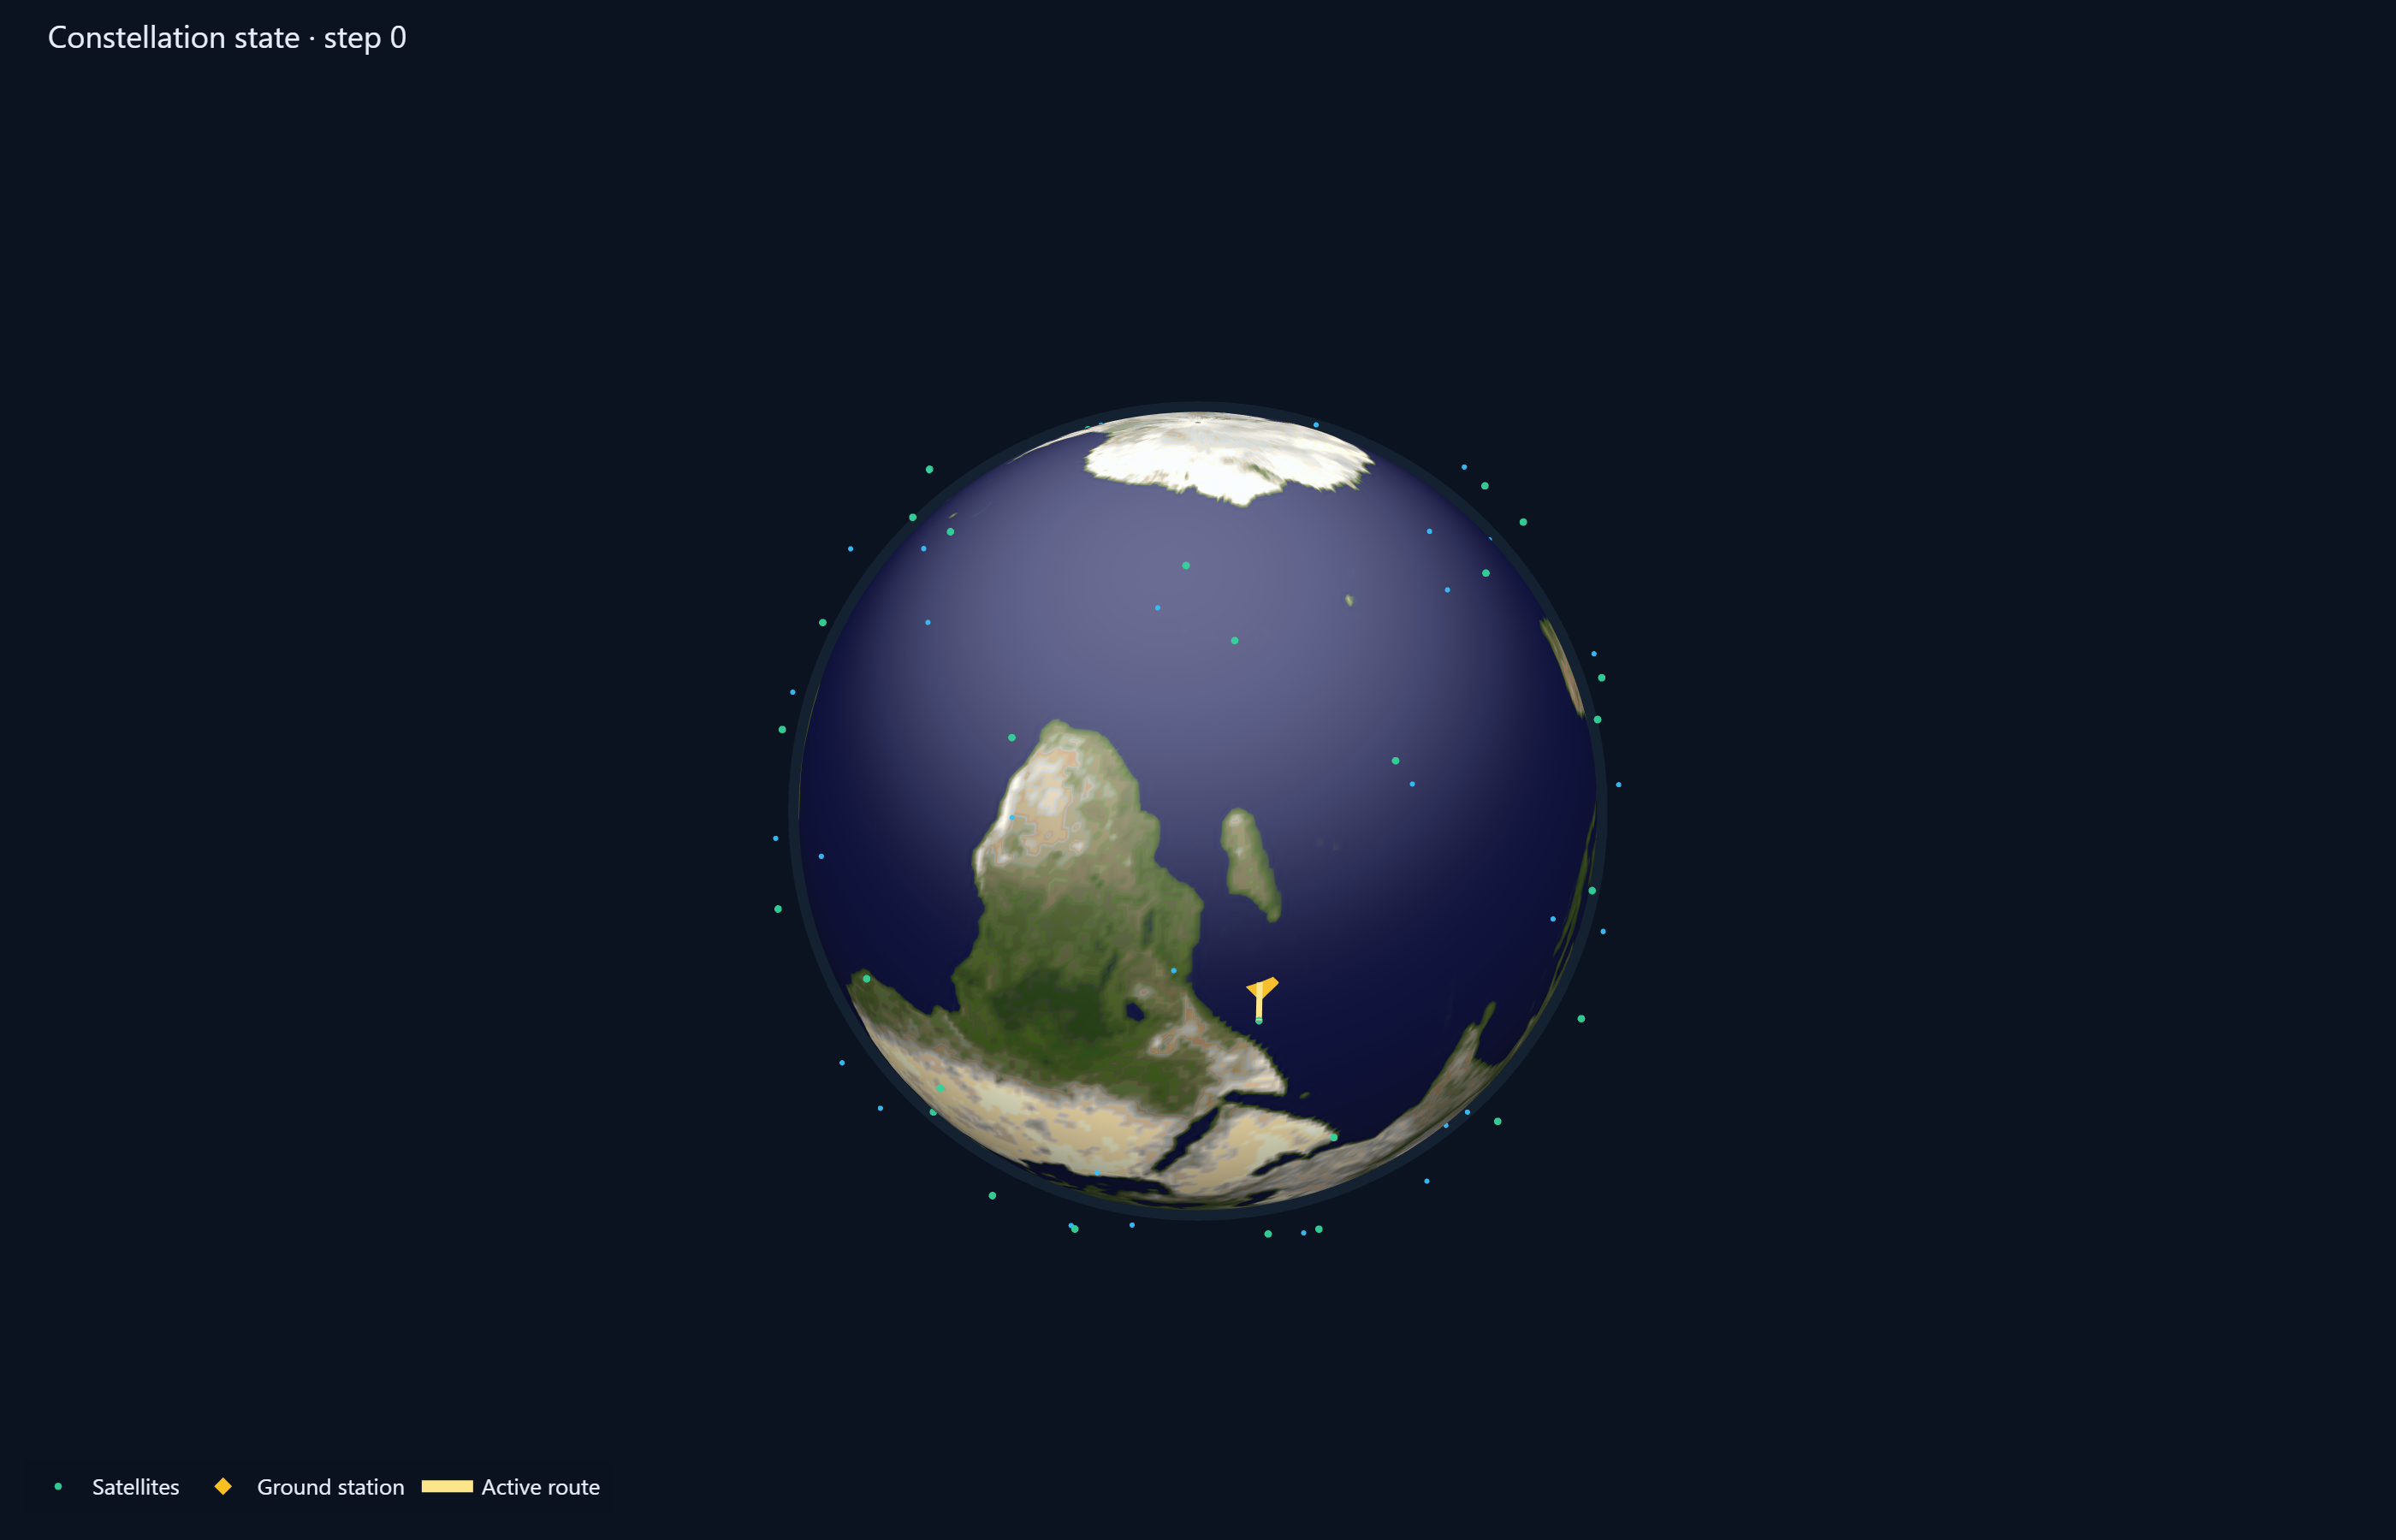
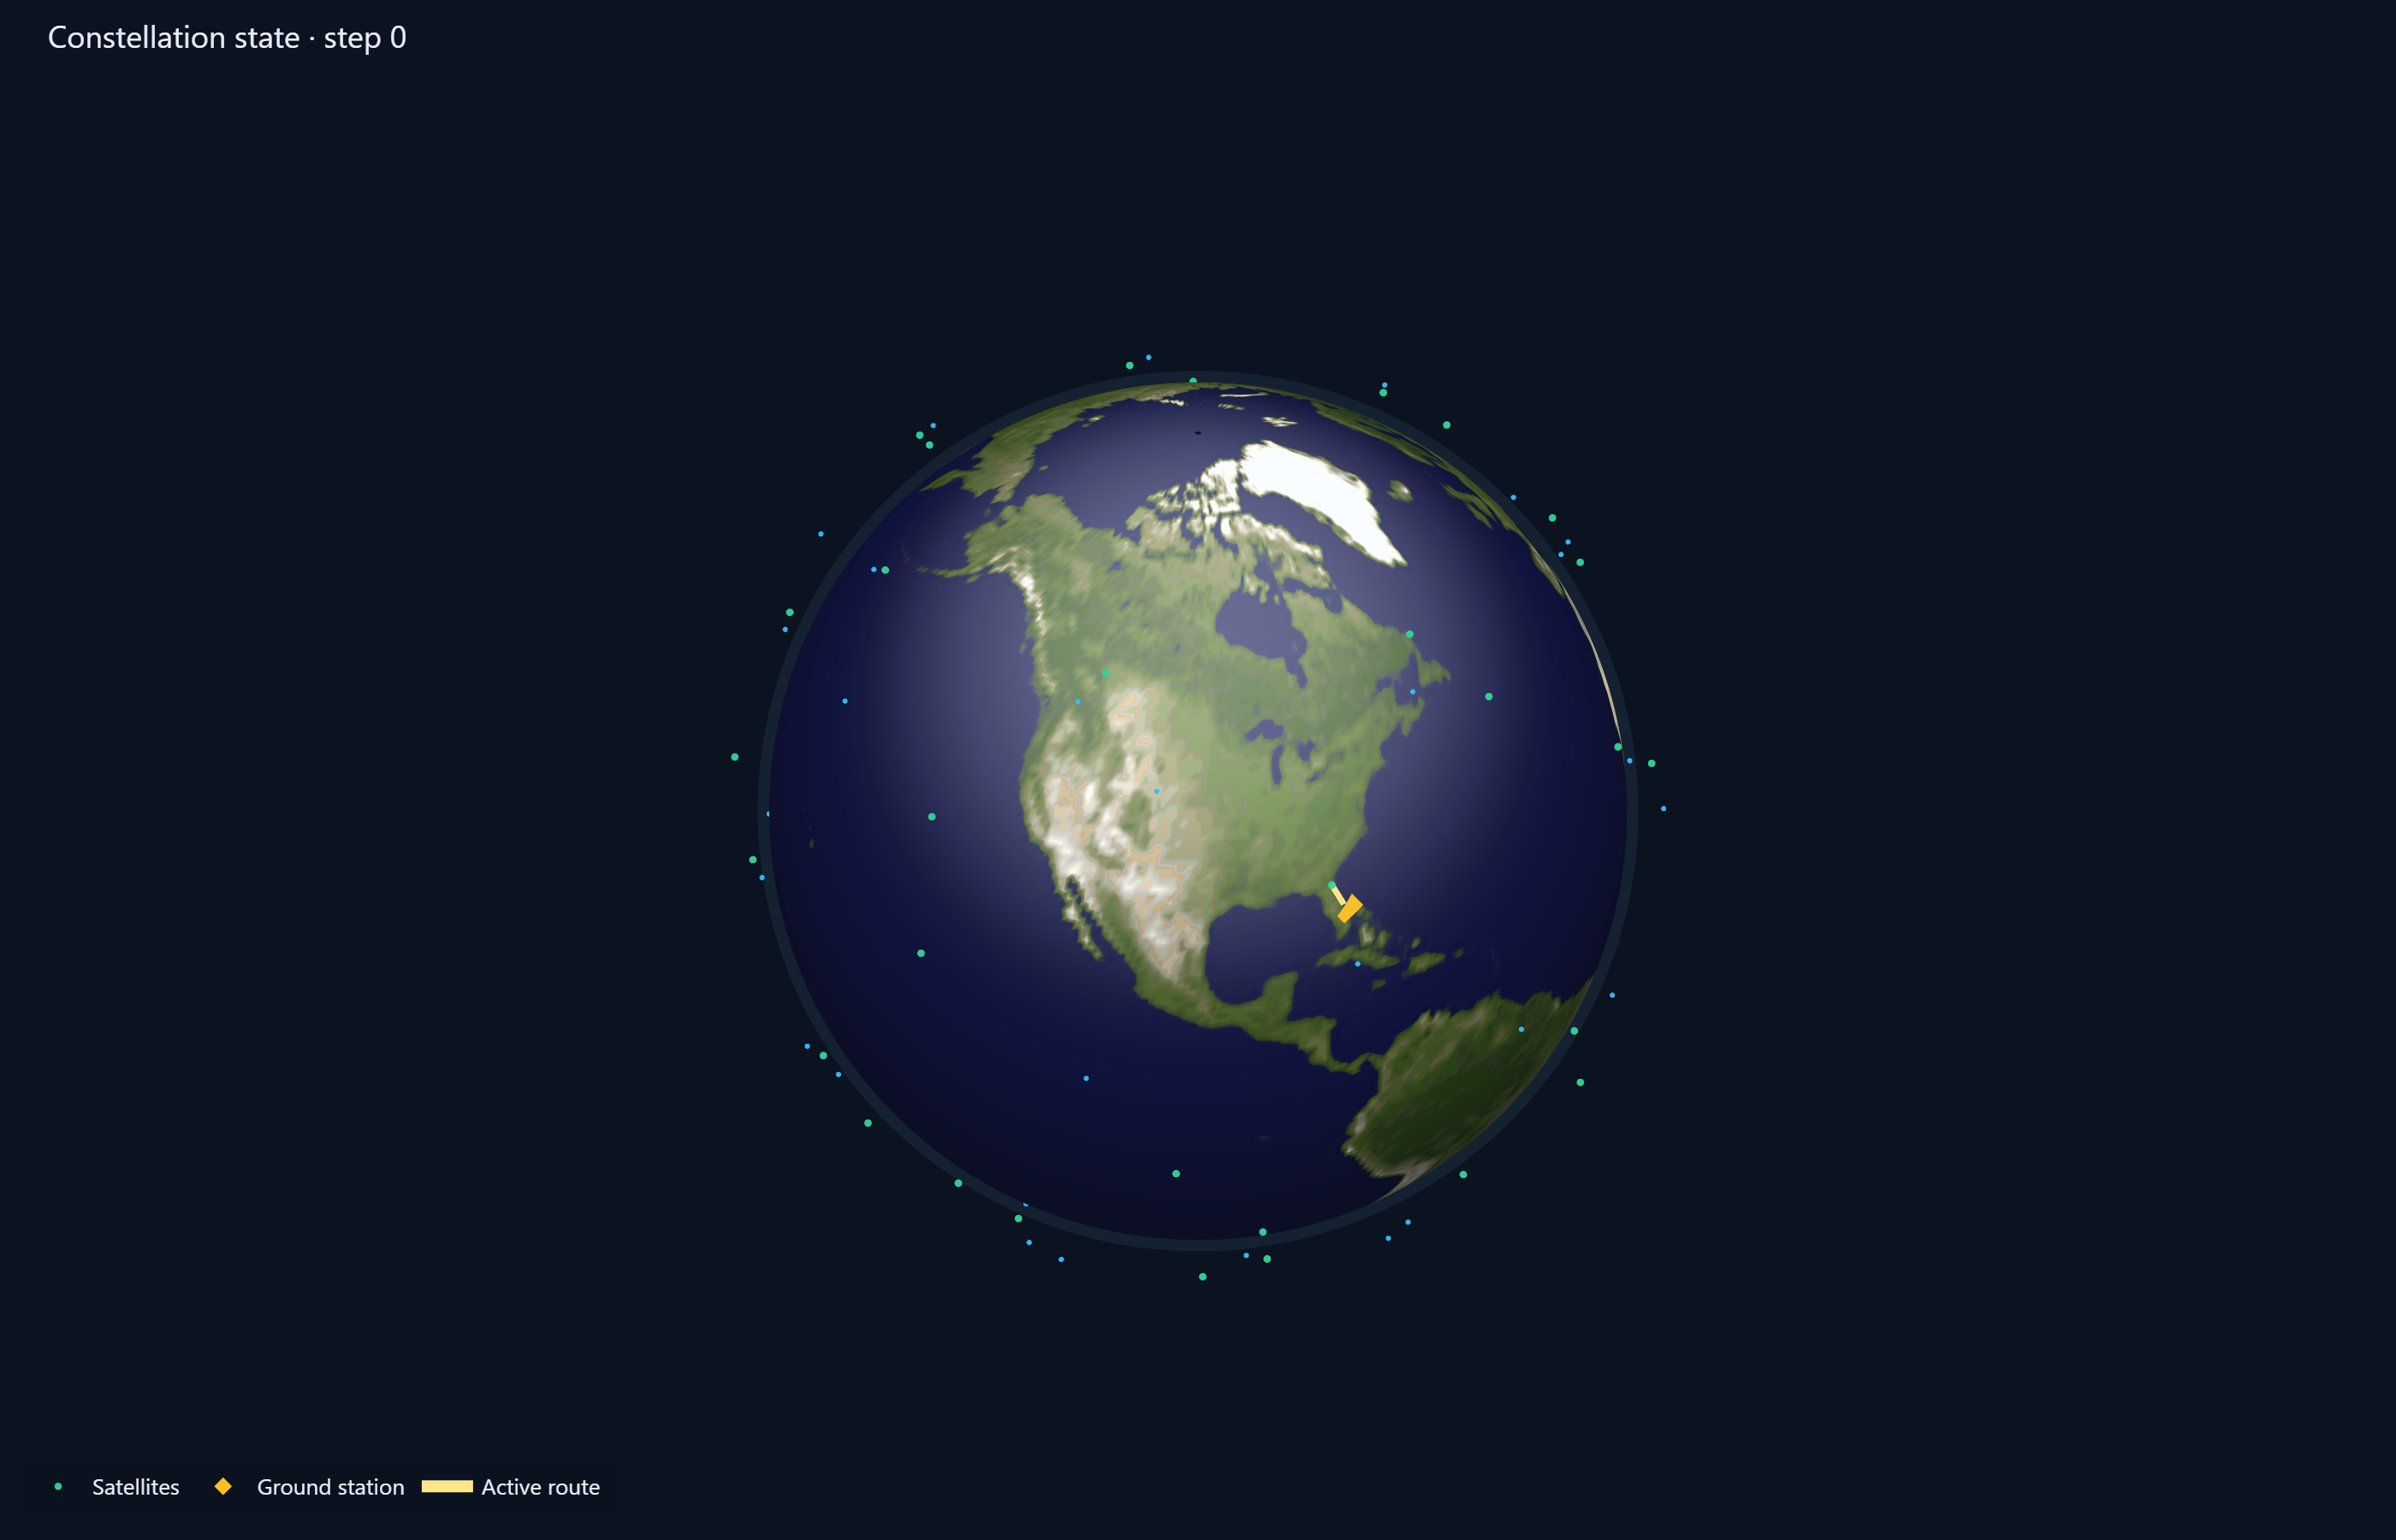
Fix globe orientation and reframe economics charts around unit benefits.
Render snapshots in ECEF with a continental-US camera, and compare cost per GFLOP plus avoided energy/carbon instead of short-window absolute USD.

Changed region(s): [[0.3418, 0.2489, 0.6836, 0.8089], [0.6525, 0.56, 0.6836, 0.5911]]

diff --git a/src/orbicloud_sim/visualizers.py b/src/orbicloud_sim/visualizers.py
@@ -18,7 +18,7 @@ from PIL import Image
 from .config import NodeRole
 from .economics import EconomicsResult
 from .network_router import GROUND_NODE_ID, SimulationResult
-from .orbital_engine import EARTH_RADIUS_KM
+from .orbital_engine import EARTH_RADIUS_KM, latlon_to_ecef_unit
 
 # Modern dashboard palette (cool slate + cyan accents; avoid purple/glow defaults).
 BG = "#0b1220"
@@ -37,6 +37,12 @@ EARTH_TEXTURE_NAME = "earth_day.jpg"
 EARTH_TEXTURE_MAX_WIDTH = 512
 # Kaleido/WebGL colorscales blow up above a few hundred stops; keep a tight palette.
 EARTH_PALETTE_COLORS = 64
+
+
+# Default globe look-at: continental United States (geographic center).
+GLOBE_FOCUS_LAT_DEG: float = 39.8
+GLOBE_FOCUS_LON_DEG: float = -98.5
+GLOBE_CAMERA_DISTANCE: float = 1.85
 
 
 def _base_layout(**overrides: object) -> dict:
@@ -133,10 +139,8 @@ def _earth_mesh() -> list[go.Surface]:
     """Realistic Earth sphere with Blue Marble texture plus a thin atmosphere shell."""
 
     image = _load_earth_texture()
-    # Equirectangular maps are lon x lat; Plotly Surface expects (u, v) with
-    # u along columns (longitude) and v along rows (colatitude).
-    texture = image.transpose(Image.Transpose.FLIP_TOP_BOTTOM)
-    indexed, colorscale = _rgb_to_indexed_texture(texture)
+    # Equirectangular Blue Marble: top = +90 lat, left = -180 lon. Do not flip.
+    indexed, colorscale = _rgb_to_indexed_texture(image)
 
     n_lat, n_lon = indexed.shape
     lon = np.linspace(-np.pi, np.pi, n_lon)
@@ -153,7 +157,7 @@ def _earth_mesh() -> list[go.Surface]:
         z=z,
         surfacecolor=indexed,
         cmin=0,
-        cmax=max(indexed.max(), 1.0),
+        cmax=max(float(indexed.max()), 1.0),
         colorscale=colorscale,
         showscale=False,
         hoverinfo="skip",
@@ -183,6 +187,21 @@ def _earth_mesh() -> list[go.Surface]:
         lighting=dict(ambient=1.0, diffuse=0.0, fresnel=0.0, specular=0.0),
     )
     return [earth, atmosphere]
+
+
+def _globe_camera(
+    latitude_deg: float = GLOBE_FOCUS_LAT_DEG,
+    longitude_deg: float = GLOBE_FOCUS_LON_DEG,
+    distance: float = GLOBE_CAMERA_DISTANCE,
+) -> dict:
+    """Camera aimed at a geographic focus with north toward +Z."""
+
+    eye = latlon_to_ecef_unit(latitude_deg, longitude_deg) * distance
+    return dict(
+        eye=dict(x=float(eye[0]), y=float(eye[1]), z=float(eye[2])),
+        up=dict(x=0.0, y=0.0, z=1.0),
+        center=dict(x=0.0, y=0.0, z=0.0),
+    )
 
 
 def _node_color(role: NodeRole, eligible: bool) -> str:
@@ -270,7 +289,7 @@ def render_globe(result: SimulationResult, step: int) -> go.Figure:
                 zaxis=_scene_axes(),
                 aspectmode="data",
                 bgcolor=BG,
-                camera=dict(eye=dict(x=1.35, y=1.15, z=0.85)),
+                camera=_globe_camera(),
             ),
         )
     )
@@ -353,39 +372,81 @@ def render_telemetry(result: SimulationResult) -> go.Figure:
 
 
 def render_economics(economics: EconomicsResult) -> go.Figure:
-    """Bar chart comparing terrestrial savings to orbital compute cost."""
+    """Compare unit compute cost and terrestrial impacts avoided.
 
-    labels = ["Grid cost saved", "Carbon value", "GPU rental avoided", "Space compute cost"]
-    values = [
-        economics.grid_cost_saved_usd,
-        economics.carbon_value_usd,
-        economics.terrestrial_rental_usd,
-        economics.space_compute_cost_usd,
-    ]
-    colors = [COLOR_COMPUTE_OK, COLOR_RELAY, COLOR_GROUND, COLOR_COMPUTE_THROTTLED]
-    fig = go.Figure(
-        go.Bar(
-            x=labels,
-            y=values,
-            marker=dict(color=colors, line=dict(width=0)),
-            text=[f"${v:,.0f}" for v in values],
-            textposition="outside",
-            textfont=dict(color=MUTED, size=11),
-            hovertemplate="%{x}<br>$%{y:,.2f}<extra></extra>",
-        )
+    Short simulation windows make absolute USD savings look tiny next to amortized
+    constellation capex. Unit cost ($/GFLOP) and physical offsets (kWh, kg CO2)
+    show the operational benefit without that scale mismatch.
+    """
+
+    terrestrial_cost_per_gflop, space_cost_per_gflop = _unit_costs(economics)
+
+    fig = make_subplots(
+        rows=1,
+        cols=2,
+        subplot_titles=("Cost per GFLOP", "Impact avoided this run"),
+        column_widths=[0.48, 0.52],
+        horizontal_spacing=0.12,
     )
+
+    fig.add_trace(_cost_per_gflop_trace(terrestrial_cost_per_gflop, space_cost_per_gflop), row=1, col=1)
+    fig.add_trace(_impact_trace(economics), row=1, col=2)
+
     fig.update_layout(
         **_base_layout(
-            title="Space vs terrestrial value",
-            height=400,
-            yaxis=dict(title="USD", color=MUTED),
-            xaxis=dict(title=""),
-            uniformtext_minsize=10,
-            uniformtext_mode="hide",
+            title="Space vs terrestrial economics",
+            height=420,
+            margin=dict(l=48, r=24, t=72, b=48),
         )
     )
+    fig.update_annotations(font=dict(color=MUTED, size=13))
+    fig.update_yaxes(title_text="USD / GFLOP", type="log", row=1, col=1)
+    fig.update_yaxes(title_text="Avoided amount", row=1, col=2)
     _style_cartesian(fig)
     return fig
+
+
+def _unit_costs(economics: EconomicsResult) -> tuple[float, float]:
+    if economics.total_gflops <= 0:
+        return float("nan"), float("nan")
+    terrestrial = (economics.terrestrial_rental_usd + economics.grid_cost_saved_usd) / economics.total_gflops
+    return terrestrial, economics.cost_per_gflop_usd
+
+
+def _cost_per_gflop_trace(terrestrial: float, orbital: float) -> go.Bar:
+    return go.Bar(
+        x=["Terrestrial", "Orbital"],
+        y=[terrestrial, orbital],
+        marker=dict(color=[COLOR_RELAY, COLOR_COMPUTE_OK], line=dict(width=0)),
+        text=[f"${terrestrial:.2e}", f"${orbital:.2e}"],
+        textposition="outside",
+        textfont=dict(color=MUTED, size=11),
+        hovertemplate="%{x}<br>$%{y:.3e} / GFLOP<extra></extra>",
+        showlegend=False,
+        name="Cost / GFLOP",
+    )
+
+
+def _impact_trace(economics: EconomicsResult) -> go.Bar:
+    return go.Bar(
+        x=["Energy (kWh)", "Carbon (kg CO₂)", "GPU rental (USD)"],
+        y=[
+            economics.terrestrial_energy_kwh,
+            economics.carbon_offset_kg,
+            economics.terrestrial_rental_usd,
+        ],
+        marker=dict(color=[COLOR_COMPUTE_OK, COLOR_RELAY, COLOR_GROUND], line=dict(width=0)),
+        text=[
+            f"{economics.terrestrial_energy_kwh:.2f}",
+            f"{economics.carbon_offset_kg:.2f}",
+            f"${economics.terrestrial_rental_usd:.2f}",
+        ],
+        textposition="outside",
+        textfont=dict(color=MUTED, size=11),
+        hovertemplate="%{x}<br>%{y:.4g}<extra></extra>",
+        showlegend=False,
+        name="Impact avoided",
+    )
 
 
 def render_dashboard(result: SimulationResult, economics: EconomicsResult, step: int = 0) -> go.Figure:
@@ -396,8 +457,8 @@ def render_dashboard(result: SimulationResult, economics: EconomicsResult, step:
     step = int(np.clip(step, 0, len(result.snapshots) - 1))
 
     globe = render_globe(result, step)
-    econ = render_economics(economics)
     telem = render_telemetry(result)
+    terrestrial_cost, orbital_cost = _unit_costs(economics)
 
     fig = make_subplots(
         rows=2,
@@ -410,7 +471,7 @@ def render_dashboard(result: SimulationResult, economics: EconomicsResult, step:
         row_heights=[0.5, 0.5],
         subplot_titles=(
             f"Constellation · step {step}",
-            "Space vs terrestrial value",
+            "Cost per GFLOP",
             "Telemetry",
         ),
         vertical_spacing=0.10,
@@ -419,8 +480,7 @@ def render_dashboard(result: SimulationResult, economics: EconomicsResult, step:
 
     for trace in globe.data:
         fig.add_trace(trace, row=1, col=1)
-    for trace in econ.data:
-        fig.add_trace(trace, row=1, col=2)
+    fig.add_trace(_cost_per_gflop_trace(terrestrial_cost, orbital_cost), row=1, col=2)
     for trace in telem.data:
         fig.add_trace(trace, row=2, col=2)
 
@@ -443,12 +503,12 @@ def render_dashboard(result: SimulationResult, economics: EconomicsResult, step:
                 zaxis=_scene_axes(),
                 aspectmode="data",
                 bgcolor=BG,
-                camera=dict(eye=dict(x=1.35, y=1.15, z=0.85)),
+                camera=_globe_camera(),
             ),
         )
     )
     fig.update_annotations(font=dict(color=MUTED, size=13))
-    fig.update_yaxes(title_text="USD", row=1, col=2)
+    fig.update_yaxes(title_text="USD / GFLOP", type="log", row=1, col=2)
     fig.update_xaxes(title_text="Time (minutes)", row=2, col=2)
     fig.update_yaxes(title_text="Battery SoC (%)", range=[0, 100], row=2, col=2)
     _style_cartesian(fig)

diff --git a/src/orbicloud_sim/orbital_engine.py b/src/orbicloud_sim/orbital_engine.py
@@ -14,6 +14,7 @@ from dataclasses import dataclass
 
 import numpy as np
 from skyfield.api import EarthSatellite, load, wgs84
+from skyfield.framelib import itrs
 from skyfield.timelib import Time, Timescale
 
 from .config import ConstellationConfig, GroundStationConfig, NodeRole, SatelliteHardwareConfig
@@ -220,6 +221,19 @@ def propagate(satellites: list[Satellite], t: Time) -> dict[int, np.ndarray]:
     return positions
 
 
+def propagate_ecef(satellites: list[Satellite], t: Time) -> dict[int, np.ndarray]:
+    """Return satellite positions in Earth-fixed ITRS/ECEF coordinates (km).
+
+    ECEF keeps continents fixed under the constellation, which is required for a
+    textured Earth globe. Physics (eclipse, LOS) continues to use ECI.
+    """
+
+    positions: dict[int, np.ndarray] = {}
+    for sat in satellites:
+        positions[sat.sat_id] = np.asarray(sat.body.at(t).frame_xyz(itrs).km, dtype=float)
+    return positions
+
+
 def ground_station_position(
     station: GroundStationConfig,
     t: Time,
@@ -230,6 +244,29 @@ def ground_station_position(
         station.latitude_deg, station.longitude_deg, elevation_m=station.elevation_m
     )
     return np.asarray(location.at(t).position.km, dtype=float)
+
+
+def ground_station_position_ecef(
+    station: GroundStationConfig,
+    t: Time,
+) -> np.ndarray:
+    """Return the ground-station position in Earth-fixed ITRS/ECEF coordinates (km)."""
+
+    location = wgs84.latlon(
+        station.latitude_deg, station.longitude_deg, elevation_m=station.elevation_m
+    )
+    return np.asarray(location.at(t).frame_xyz(itrs).km, dtype=float)
+
+
+def latlon_to_ecef_unit(latitude_deg: float, longitude_deg: float) -> np.ndarray:
+    """Return a unit ECEF vector pointing toward ``(latitude, longitude)``."""
+
+    lat = math.radians(latitude_deg)
+    lon = math.radians(longitude_deg)
+    return np.array(
+        [math.cos(lat) * math.cos(lon), math.cos(lat) * math.sin(lon), math.sin(lat)],
+        dtype=float,
+    )
 
 
 def sun_unit_vector_eci(t: Time) -> np.ndarray:

diff --git a/src/orbicloud_sim/config.py b/src/orbicloud_sim/config.py
@@ -311,11 +311,13 @@ def default_simulation_config() -> SimulationConfig:
         compute_profile=default_compute_profile(),
         relay_profile=default_relay_profile(),
     )
-    # An equatorial station sits well inside a 53-degree constellation's coverage,
-    # so it has frequent satellite passes; Svalbard (78N) would never see a 53-deg
-    # orbit. With 12 sats per plane, in-plane neighbors are ~3960 km apart, within
-    # the ~5000 km Earth-limb ISL range, so the mesh is connected.
+    # Cape Canaveral sits under a 53-degree Walker shell with frequent passes.
+    # With 12 sats per plane, in-plane neighbors are ~3960 km apart, within the
+    # ~5000 km Earth-limb ISL range, so the mesh stays connected.
     ground_station = GroundStationConfig(
-        name="Kourou", latitude_deg=5.16, longitude_deg=-52.65, elevation_m=10.0
+        name="Cape Canaveral",
+        latitude_deg=28.39,
+        longitude_deg=-80.60,
+        elevation_m=3.0,
     )
     return SimulationConfig(constellation=constellation, ground_station=ground_station)

diff --git a/tests/test_orbital.py b/tests/test_orbital.py
@@ -296,3 +296,14 @@ def test_earth_texture_loads():
     assert indexed.ndim == 2
     assert len(colorscale) <= 65
     assert indexed.shape == (image.height, image.width)
+
+
+def test_latlon_to_ecef_points_to_continental_us():
+    from orbicloud_sim.orbital_engine import latlon_to_ecef_unit
+
+    # Contiguous-US geographic center: western hemisphere (x<0, y<0 in ECEF) and north (z>0).
+    vec = latlon_to_ecef_unit(39.8, -98.5)
+    assert vec[0] < 0.0
+    assert vec[1] < 0.0
+    assert vec[2] > 0.0
+    assert math.isclose(float(np.linalg.norm(vec)), 1.0, rel_tol=1e-9)

diff --git a/src/orbicloud_sim/network_router.py b/src/orbicloud_sim/network_router.py
@@ -26,8 +26,10 @@ from .orbital_engine import (
     build_timescale,
     generate_walker_delta,
     ground_station_position,
+    ground_station_position_ecef,
     is_in_eclipse,
     propagate,
+    propagate_ecef,
 )
 
 SPEED_OF_LIGHT_KM_S: float = 299792.458
@@ -329,7 +331,9 @@ def run_simulation(config: SimulationConfig) -> SimulationResult:
 
     for step, t in enumerate(timeline):
         positions = propagate(satellites, t)
+        positions_ecef = propagate_ecef(satellites, t)
         ground_position = ground_station_position(config.ground_station, t)
+        ground_position_ecef = ground_station_position_ecef(config.ground_station, t)
 
         # Advance node state: compute nodes run work whenever they are eligible.
         for sat in satellites:
@@ -377,11 +381,12 @@ def run_simulation(config: SimulationConfig) -> SimulationResult:
             {
                 "step": step,
                 "time_s": step * dt_s,
-                "ground_position_km": ground_position,
+                # Globe rendering uses Earth-fixed coordinates so continents stay put.
+                "ground_position_km": ground_position_ecef,
                 "route_path": route.path,
                 "nodes": {
                     sat.sat_id: {
-                        "position_km": positions[sat.sat_id],
+                        "position_km": positions_ecef[sat.sat_id],
                         "role": states[sat.sat_id].role,
                         "battery_fraction": states[sat.sat_id].battery_fraction,
                         "temperature_c": states[sat.sat_id].temperature_c,

diff --git a/README.md b/README.md
@@ -88,7 +88,7 @@ Combined dashboard (globe, economics, and telemetry):
 
 ![OrbiCloud-Sim dashboard](docs/images/dashboard.png)
 
-3D constellation globe with NASA Blue Marble Earth texture:
+3D constellation globe with NASA Blue Marble Earth texture (continental US view):
 
 ![Constellation globe](docs/images/globe.png)
 
@@ -96,7 +96,7 @@ Telemetry time series:
 
 ![Telemetry](docs/images/telemetry.png)
 
-Space vs terrestrial economics:
+Unit-cost and impact comparison (avoids short-window capex scale distortion):
 
 ![Economics](docs/images/economics.png)
 